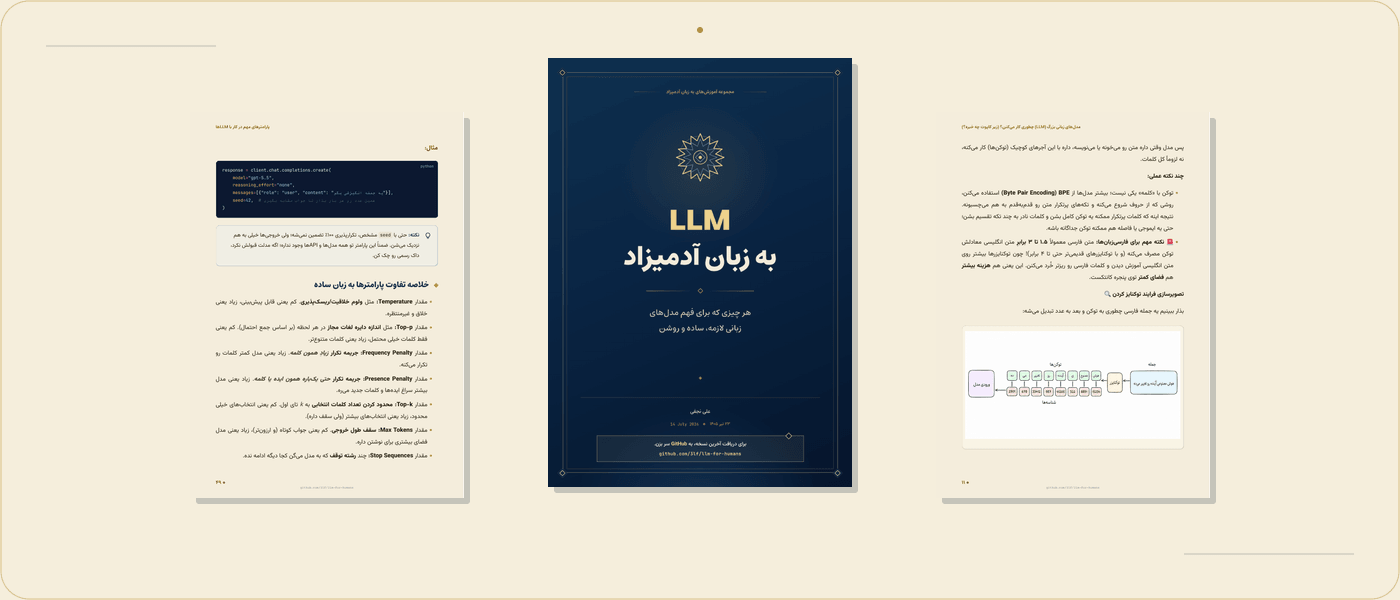
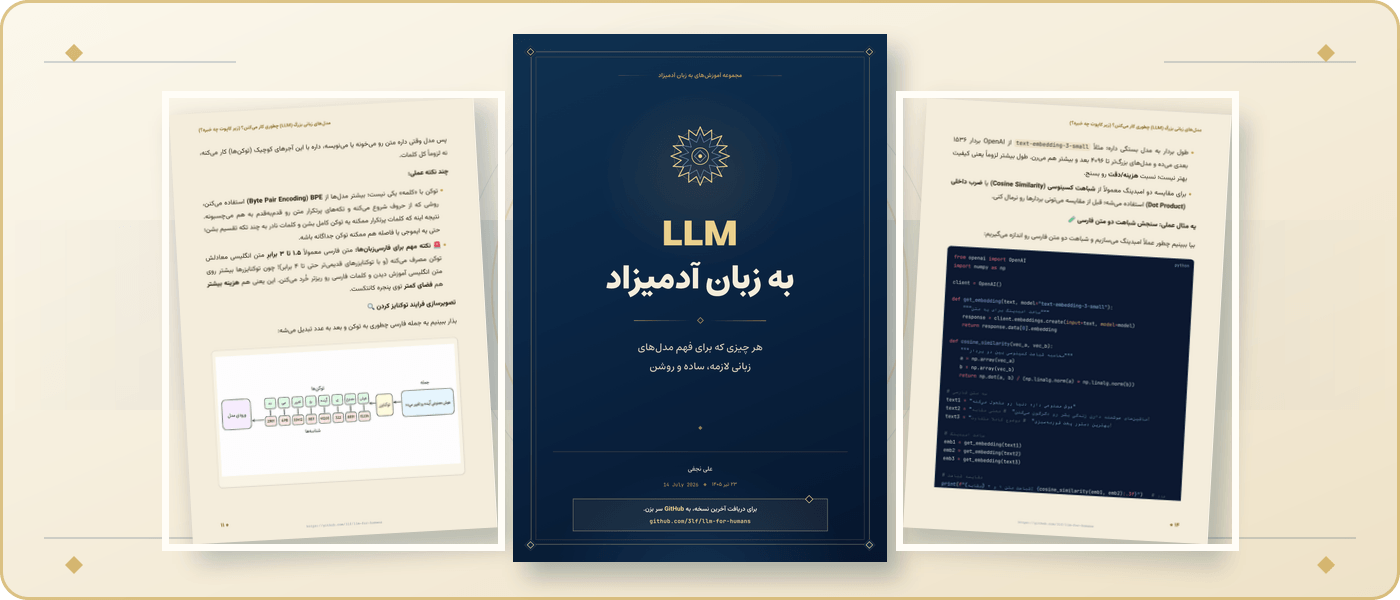
Redesign the book download header

diff --git a/README.md b/README.md
@@ -1,30 +1,28 @@
 <div dir="rtl">
 
 <div align="center">
-<a href="https://github.com/3lf/llm-for-humans/releases/latest"><img src="images/book-preview.png" alt="پیشنمایش نسخه PDF کتاب LLM به زبان آدمیزاد"></a>
+<a href="https://github.com/3lf/llm-for-humans/releases/latest"><img src="images/book-preview.png" alt="کاور و صفحههای واقعی کتاب LLM به زبان آدمیزاد" width="100%"></a>
 
-<a href="https://github.com/3lf/llm-for-humans/releases/latest/download/llm-for-humans-book.pdf"><img src="images/download-latest-book.svg" alt="دانلود مستقیم تازهترین نسخه PDF کتاب LLM به زبان آدمیزاد" width="680"></a>
+<p><strong>کتاب رو چطور میخوای بخونی؟ 📥</strong></p>
 
-<p><sub>با یک کلیک، تازهترین نسخه عادی کتاب رو مستقیم دانلود کن.</sub></p>
-
-<p><strong>نسخه مناسب خودت رو انتخاب کن:</strong></p>
+<p>محتوای هر سه نسخه یکیه؛ فقط حجم فایل، کیفیت تصویرها و رنگ پسزمینه فرق میکنه.</p>
 
 <table width="100%">
 <tr>
 <td align="center" width="33%">
-<a href="https://github.com/3lf/llm-for-humans/releases/latest/download/llm-for-humans-book.pdf"><strong>دانلود مستقیم نسخه عادی</strong></a>
+<a href="https://github.com/3lf/llm-for-humans/releases/latest/download/llm-for-humans-book.pdf"><img src="images/download-compact-book.svg" alt="دانلود مستقیم نسخه کمحجم کتاب" width="300"></a>
 <br>
-<sub>کمحجمتر؛ مناسب مطالعه و اشتراکگذاری</sub>
-</td>
-<td align="center" width="34%">
-<a href="https://github.com/3lf/llm-for-humans/releases/latest/download/llm-for-humans-book-print.pdf"><strong>دانلود مستقیم نسخه مناسب چاپ</strong></a>
-<br>
-<sub>پسزمینه سفید و تصاویر رنگی بدون افت؛ کممصرف برای چاپ</sub>
+<sub>همون کتاب کامل، با حجم کمتر؛<br>برای خوندن روزمره و فرستادن برای بقیه.</sub>
 </td>
 <td align="center" width="33%">
-<a href="https://github.com/3lf/llm-for-humans/releases/latest/download/llm-for-humans-book-high-quality.pdf"><strong>دانلود مستقیم نسخه باکیفیت</strong></a>
+<a href="https://github.com/3lf/llm-for-humans/releases/latest/download/llm-for-humans-book-high-quality.pdf"><img src="images/download-high-quality-book.svg" alt="دانلود مستقیم نسخه باکیفیت کتاب" width="300"></a>
 <br>
-<sub>طراحی تمامرنگی و تصاویر بدون افت؛ مناسب نمایش و آرشیو</sub>
+<sub>تصویرها با کیفیت اصلی؛<br>برای نمایش روی صفحههای بزرگ و نگهداشتن نسخه باکیفیت.</sub>
+</td>
+<td align="center" width="34%">
+<a href="https://github.com/3lf/llm-for-humans/releases/latest/download/llm-for-humans-book-print.pdf"><img src="images/download-print-book.svg" alt="دانلود مستقیم نسخه مناسب چاپ کتاب" width="300"></a>
+<br>
+<sub>صفحههای سفید و تصویرهای رنگی؛<br>برای چاپ راحتتر و مصرف کمتر جوهر.</sub>
 </td>
 </tr>
 </table>
